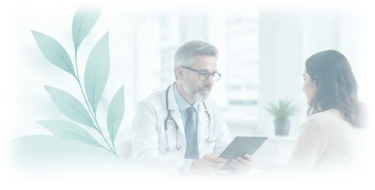
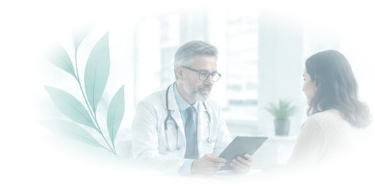
add time zone greeting and clean up hero artwork

diff --git a/frontend/src/app/dashboard/page.tsx b/frontend/src/app/dashboard/page.tsx
@@ -69,6 +69,60 @@ export default function DashboardOverview() {
     ]);
   }, []);
 
+  const [greeting, setGreeting] = useState("");
+  const [displayedGreeting, setDisplayedGreeting] = useState("");
+
+  // Indian Time Zone Greeting Resolver (Asia/Kolkata)
+  const getIndianGreeting = () => {
+    try {
+      const now = new Date();
+      const istHourStr = new Intl.DateTimeFormat("en-US", {
+        timeZone: "Asia/Kolkata",
+        hour: "numeric",
+        hour12: false
+      }).format(now);
+      const hour = parseInt(istHourStr, 10);
+      
+      if (hour >= 5 && hour < 12) return "Good morning";
+      if (hour >= 12 && hour < 17) return "Good afternoon";
+      if (hour >= 17 && hour < 21) return "Good evening";
+      return "Good night";
+    } catch {
+      const hour = new Date().getHours();
+      if (hour >= 5 && hour < 12) return "Good morning";
+      if (hour >= 12 && hour < 17) return "Good afternoon";
+      if (hour >= 17 && hour < 21) return "Good evening";
+      return "Good night";
+    }
+  };
+
+  // Keep greeting synced live with Indian Time Zone
+  useEffect(() => {
+    const update = () => {
+      const next = getIndianGreeting();
+      setGreeting((prev) => (prev !== next ? next : prev));
+    };
+    update();
+    const timer = setInterval(update, 10000);
+    return () => clearInterval(timer);
+  }, []);
+
+  // Typewriter motion animation ("like we typed it")
+  useEffect(() => {
+    if (!greeting) return;
+    let index = 0;
+    setDisplayedGreeting("");
+    const interval = setInterval(() => {
+      index++;
+      setDisplayedGreeting(greeting.slice(0, index));
+      if (index >= greeting.length) {
+        clearInterval(interval);
+      }
+    }, 75);
+
+    return () => clearInterval(interval);
+  }, [greeting]);
+
   const toggleDose = (id: string) => {
     setDoses((prev) =>
       prev.map((d) => (d.id === id ? { ...d, taken: !d.taken } : d))
@@ -78,13 +132,6 @@ export default function DashboardOverview() {
   const completedDoses = doses.filter((d) => d.taken).length;
   const adherenceRate = Math.round((completedDoses / doses.length) * 100);
 
-  const getGreeting = () => {
-    const hour = new Date().getHours();
-    if (hour < 12) return "Good morning";
-    if (hour < 18) return "Good afternoon";
-    return "Good evening";
-  };
-
   return (
     <div className="space-y-12 animate-in fade-in duration-500 relative">
       {/* =========================================================================
@@ -93,8 +140,9 @@ export default function DashboardOverview() {
       <section className="relative pt-2 pb-6 sm:pb-8 flex flex-col md:flex-row md:items-center justify-between gap-6 overflow-hidden">
         {/* Left Headline & Editorial Reassurance */}
         <div className="max-w-xl z-10 space-y-3">
-          <h1 className="text-4xl sm:text-5xl font-normal tracking-tight text-slate-900 dark:text-slate-100 font-editorial-serif">
-            {getGreeting()}
+          <h1 className="text-4xl sm:text-5xl font-normal tracking-tight text-slate-900 dark:text-slate-100 font-editorial-serif min-h-[1.25em] flex items-baseline">
+            <span>{displayedGreeting || greeting || "Good morning"}</span>
+            <span className="inline-block w-0.5 h-[0.8em] bg-teal-700/60 dark:bg-teal-400/60 animate-pulse ml-1 rounded-full" />
           </h1>
           <p className="text-lg sm:text-xl text-slate-700 dark:text-slate-300 font-editorial-serif leading-relaxed">
             Your health matters. We&apos;re here for you.
@@ -109,12 +157,18 @@ export default function DashboardOverview() {
 
         {/* Right Doctor Consultation Visual with Soft Feathered Waves */}
         <div className="relative flex items-center justify-end shrink-0 md:w-[460px] lg:w-[500px]">
-          {/* Doctor consultation artwork with soft alpha feathered edges */}
-          <div className="relative w-full max-w-[420px] pointer-events-none select-none">
+          {/* Doctor consultation artwork with seamless radial alpha blend */}
+          <div 
+            className="relative w-full max-w-[420px] pointer-events-none select-none"
+            style={{
+              maskImage: "radial-gradient(ellipse 75% 75% at 50% 50%, black 50%, transparent 95%)",
+              WebkitMaskImage: "radial-gradient(ellipse 75% 75% at 50% 50%, black 50%, transparent 95%)"
+            }}
+          >
             <img 
               src="/hero-doctor.png" 
               alt="Physician consultation" 
-              className="w-full h-auto object-contain mix-blend-multiply opacity-80 dark:opacity-70 dark:mix-blend-screen transition-opacity"
+              className="w-full h-auto object-contain mix-blend-multiply opacity-85 dark:opacity-75 dark:mix-blend-screen transition-opacity"
             />
           </div>
 
@@ -270,46 +324,49 @@ export default function DashboardOverview() {
       </section>
 
       {/* =========================================================================
-          FLOATING ACTION BUTTON — PRESCRIPTION UPLOAD (Written Elegantly)
+          FLOATING ACTION BUTTON — PRESCRIPTION UPLOAD (Positioned Above the FAB)
           ========================================================================= */}
-      <div className="fixed bottom-6 right-6 sm:bottom-8 sm:right-8 z-40 flex items-end gap-2 pointer-events-auto select-none">
-        {/* Delicate Botanical Sprout (Soft & Blended) */}
-        <div className="w-16 h-14 sm:w-20 sm:h-16 shrink-0 pointer-events-none -mr-2 mb-2">
-          <img 
-            src="/bottom-leaf.png" 
-            alt="" 
-            className="w-full h-full object-contain mix-blend-multiply opacity-75 dark:opacity-60" 
-          />
-        </div>
+      <div className="fixed bottom-6 right-6 sm:bottom-8 sm:right-8 z-40 flex flex-col items-end pointer-events-auto select-none">
+        {/* Callout & Leaves Stacked Above the FAB */}
+        <div className="relative flex flex-col items-center -mr-2 mb-1 pointer-events-none">
+          {/* Delicate Botanical Sprout Rising Above */}
+          <div className="w-14 h-12 shrink-0 -mb-1 pointer-events-none">
+            <img 
+              src="/bottom-leaf.png" 
+              alt="" 
+              className="w-full h-full object-contain mix-blend-multiply opacity-70 dark:opacity-55" 
+            />
+          </div>
 
-        {/* Elegant Handcrafted Callout: "Upload prescription ⤴" */}
-        <div className="flex items-center gap-1.5 mb-3 pointer-events-none">
-          <div className="text-right font-editorial-serif italic text-xs sm:text-[13px] leading-tight text-slate-500 dark:text-teal-300 font-medium tracking-tight">
+          {/* Elegant Handcrafted Callout: "Upload \n prescription" */}
+          <div className="text-center font-editorial-serif italic text-xs sm:text-[13px] leading-tight text-slate-500 dark:text-teal-300 font-medium tracking-tight">
             <p>Upload</p>
             <p className="whitespace-nowrap">prescription</p>
           </div>
 
-          {/* Delicate Hand-Drawn Style Curved Arrow pointing to the FAB */}
-          <svg 
-            className="w-6 h-5 text-slate-400 dark:text-teal-400 shrink-0" 
-            viewBox="0 0 28 22" 
-            fill="none" 
-            stroke="currentColor" 
-            strokeWidth="1.6" 
-            strokeLinecap="round" 
-            strokeLinejoin="round"
-          >
-            {/* Smooth looping curve swoop */}
-            <path d="M 2 14 C 9 17, 18 16, 24 6" />
-            {/* Arrowhead */}
-            <path d="M 19 5 L 25 5 L 25 11" />
-          </svg>
+          {/* Graceful curved swoop arrow pointing down-right toward the + button */}
+          <div className="w-8 h-8 -mr-5 -mt-0.5">
+            <svg 
+              viewBox="0 0 32 32" 
+              fill="none" 
+              stroke="currentColor" 
+              className="w-full h-full text-slate-400 dark:text-teal-400" 
+              strokeWidth="1.6" 
+              strokeLinecap="round" 
+              strokeLinejoin="round"
+            >
+              {/* Smooth looping curve swoop down to the FAB */}
+              <path d="M 6 4 C 16 6, 22 14, 20 25" />
+              {/* Arrowhead */}
+              <path d="M 14 21 L 20 26 L 25 20" />
+            </svg>
+          </div>
         </div>
 
         {/* Circular Dark Teal FAB */}
         <Link 
           href="/dashboard/scan"
-          className="fab-upload-btn group mb-2 shrink-0"
+          className="fab-upload-btn group shadow-lg shrink-0"
           title="Upload prescription"
         >
           <Plus className="w-6 h-6 stroke-[2.5] text-white group-hover:rotate-90 transition-transform duration-300" />

diff --git a/frontend/src/app/dashboard/layout.tsx b/frontend/src/app/dashboard/layout.tsx
@@ -37,6 +37,7 @@ export default function DashboardLayout({
   const [sidebarOpen, setSidebarOpen] = useState(true);
   const [theme, setTheme] = useState("light");
   const [searchQuery, setSearchQuery] = useState("");
+  const [greeting, setGreeting] = useState("Good morning");
   const supabase = createClient();
 
   useEffect(() => {
@@ -44,6 +45,34 @@ export default function DashboardLayout({
     if (document.documentElement.classList.contains("dark")) {
       setTheme("dark");
     }
+
+    // Indian Time Zone Greeting (Asia/Kolkata)
+    const getIndianGreeting = () => {
+      try {
+        const now = new Date();
+        const istHourStr = new Intl.DateTimeFormat("en-US", {
+          timeZone: "Asia/Kolkata",
+          hour: "numeric",
+          hour12: false
+        }).format(now);
+        const hour = parseInt(istHourStr, 10);
+        if (hour >= 5 && hour < 12) return "Good morning";
+        if (hour >= 12 && hour < 17) return "Good afternoon";
+        if (hour >= 17 && hour < 21) return "Good evening";
+        return "Good night";
+      } catch {
+        const hour = new Date().getHours();
+        if (hour >= 5 && hour < 12) return "Good morning";
+        if (hour >= 12 && hour < 17) return "Good afternoon";
+        if (hour >= 17 && hour < 21) return "Good evening";
+        return "Good night";
+      }
+    };
+
+    const updateGreeting = () => setGreeting(getIndianGreeting());
+    updateGreeting();
+    const interval = setInterval(updateGreeting, 10000);
+    return () => clearInterval(interval);
   }, []);
 
   const toggleTheme = () => {
@@ -97,12 +126,12 @@ export default function DashboardLayout({
               <stop offset="100%" stopColor="#edf8f4" stopOpacity="0.05" />
             </linearGradient>
           </defs>
-          {/* Broad sweeping wave */}
-          <path d="M 0 0 C 160 190, 340 300, 550 250 C 690 220, 780 130, 850 60 L 850 0 Z" fill="url(#waveTopGrad1)" fillOpacity="0.55" />
-          {/* Mid organic curve */}
-          <path d="M 90 0 C 240 150, 410 240, 620 210 C 740 190, 810 110, 850 30 L 850 0 Z" fill="url(#waveTopGrad2)" fillOpacity="0.4" />
+          {/* Broad sweeping wave tracing under the doctor consultation */}
+          <path d="M 0 0 C 140 180, 240 320, 420 330 C 580 340, 700 290, 850 140 L 850 0 Z" fill="url(#waveTopGrad1)" fillOpacity="0.5" />
+          {/* Mid organic curve tracing the lower contour */}
+          <path d="M 80 0 C 220 180, 320 300, 480 310 C 620 320, 740 250, 850 80 L 850 0 Z" fill="url(#waveTopGrad2)" fillOpacity="0.35" />
           {/* Accent feathered wave ridge */}
-          <path d="M 300 0 C 410 190, 540 280, 720 240 C 790 225, 830 170, 850 120 L 850 0 Z" fill="url(#waveTopGrad3)" fillOpacity="0.25" />
+          <path d="M 240 0 C 340 180, 440 280, 580 270 C 700 260, 780 190, 850 100 L 850 0 Z" fill="url(#waveTopGrad3)" fillOpacity="0.2" />
         </svg>
 
         {/* Bottom-Right Rolling Waves (Sweeping under Upload FAB) */}
@@ -301,7 +330,7 @@ export default function DashboardLayout({
                 JK
               </div>
               <span className="hidden md:inline text-xs font-medium text-slate-700 dark:text-slate-300">
-                Good morning
+                {greeting}
               </span>
               <ChevronDown className="w-3.5 h-3.5 text-slate-400" />
             </div>
